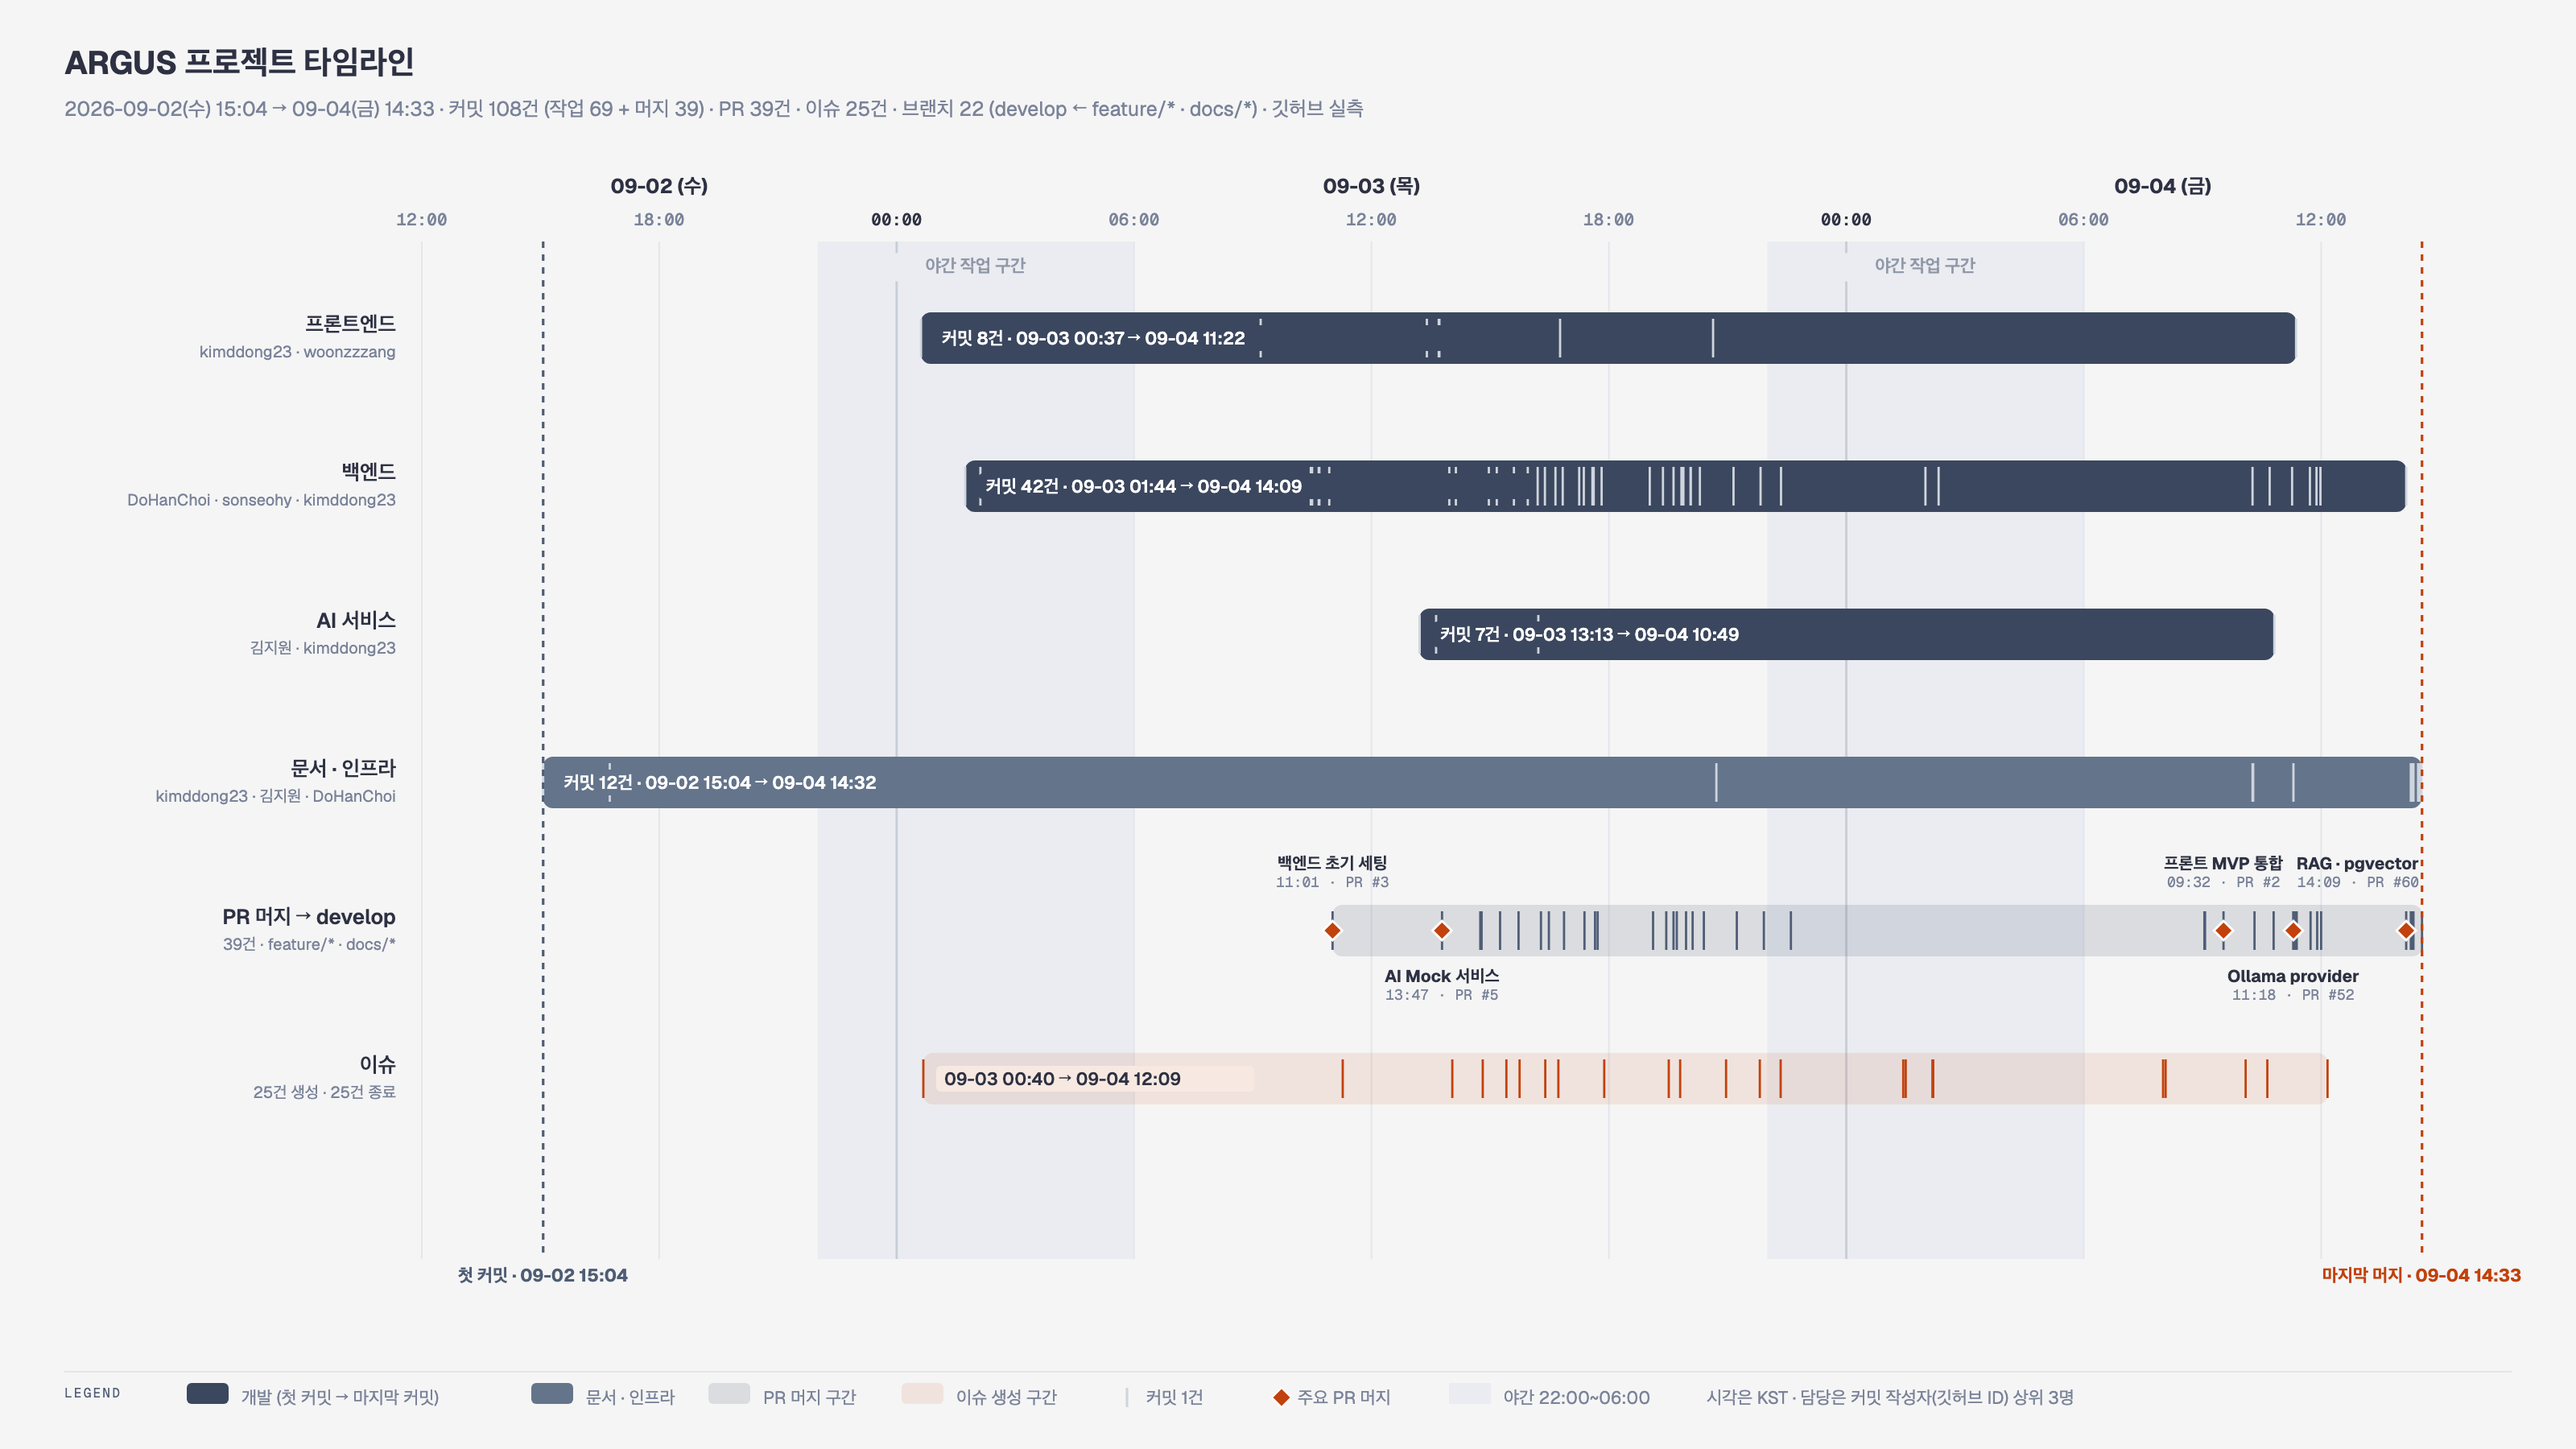
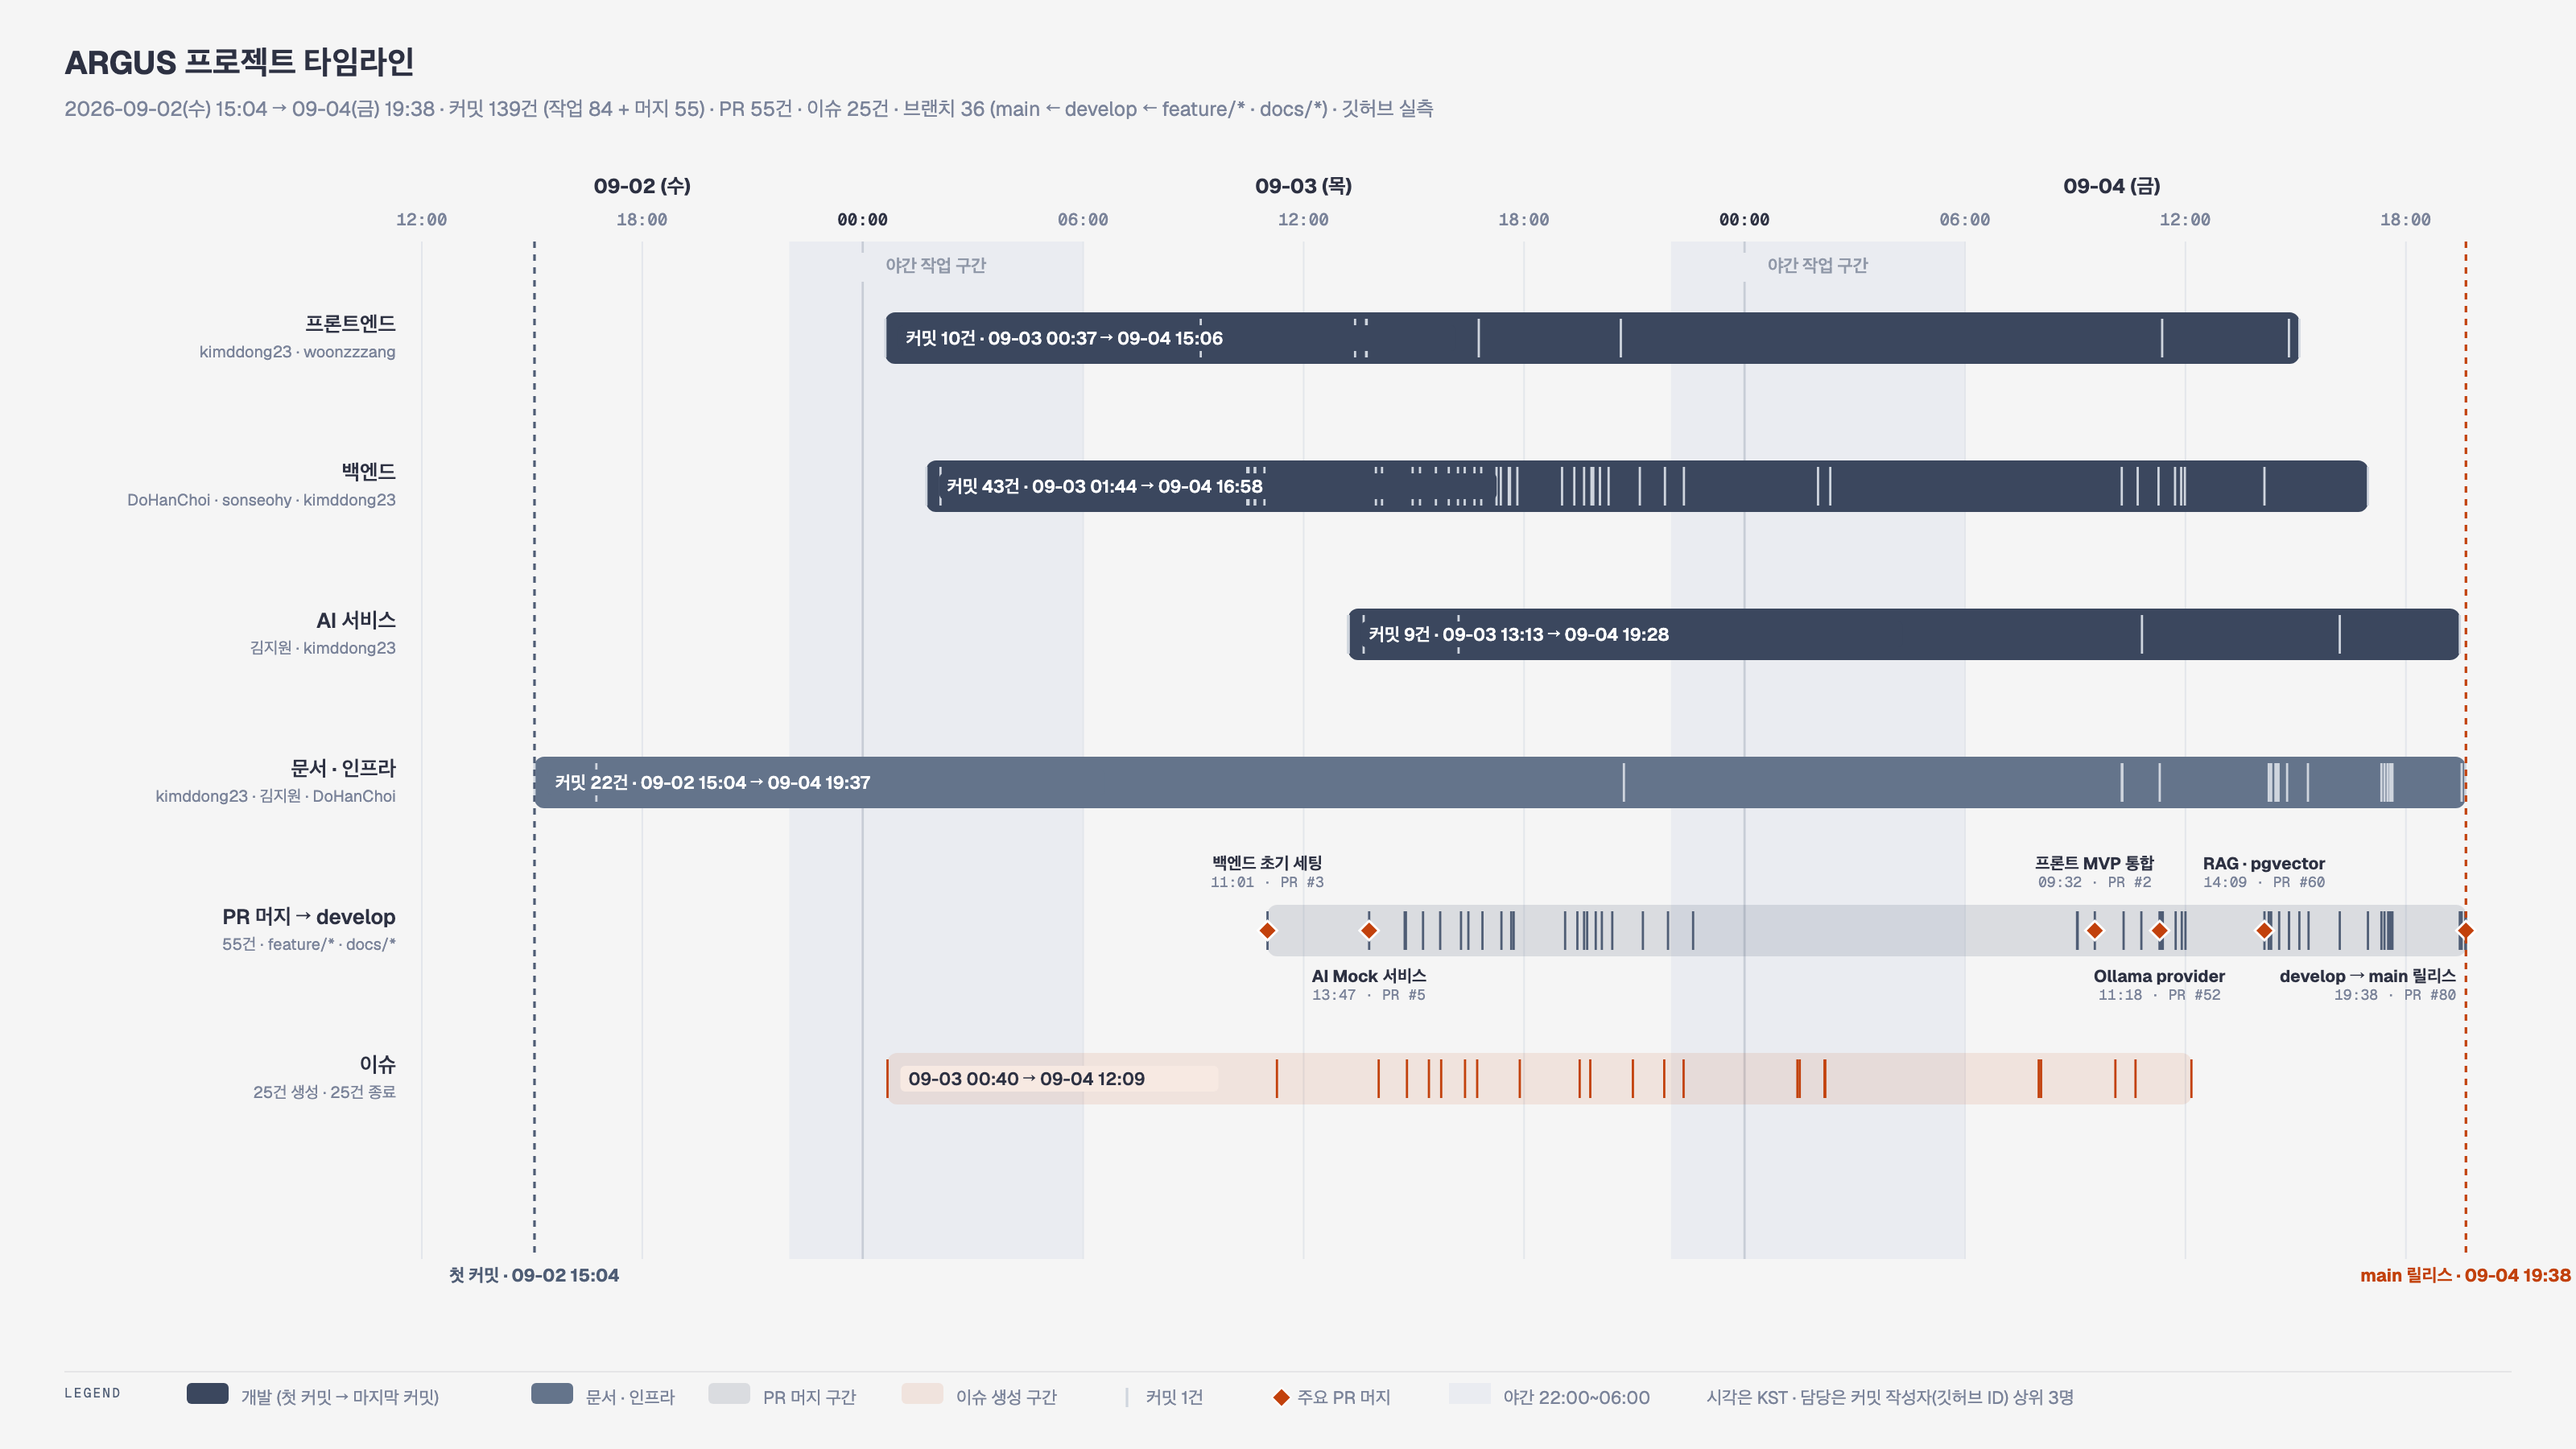
docs: README 타임라인과 협업 흐름 보강

diff --git a/README.md b/README.md
@@ -262,6 +262,17 @@ ollama list
 
 ![프로젝트 타임라인](docs/assets/project-timeline.png)
 
+## 협업 및 형상관리
+
+- 작업 단위: Issue → feature·docs·fix branch → PR → review → `develop` merge
+- 릴리스 단위: 검증된 `develop` → release PR → `main` merge
+- `main`, `develop` 직접 push 금지
+- PR review·자동 리뷰 의견·수정 반영 후 작성자가 merge
+
+![협업 규칙](docs/assets/collaboration-rules.png)
+
+![PR 브랜치 그래프](docs/assets/collaboration-pr-branch-graph.png)
+
 ## 상세 문서
 
 - Backend·DB·RAG: `backend/README.md`
